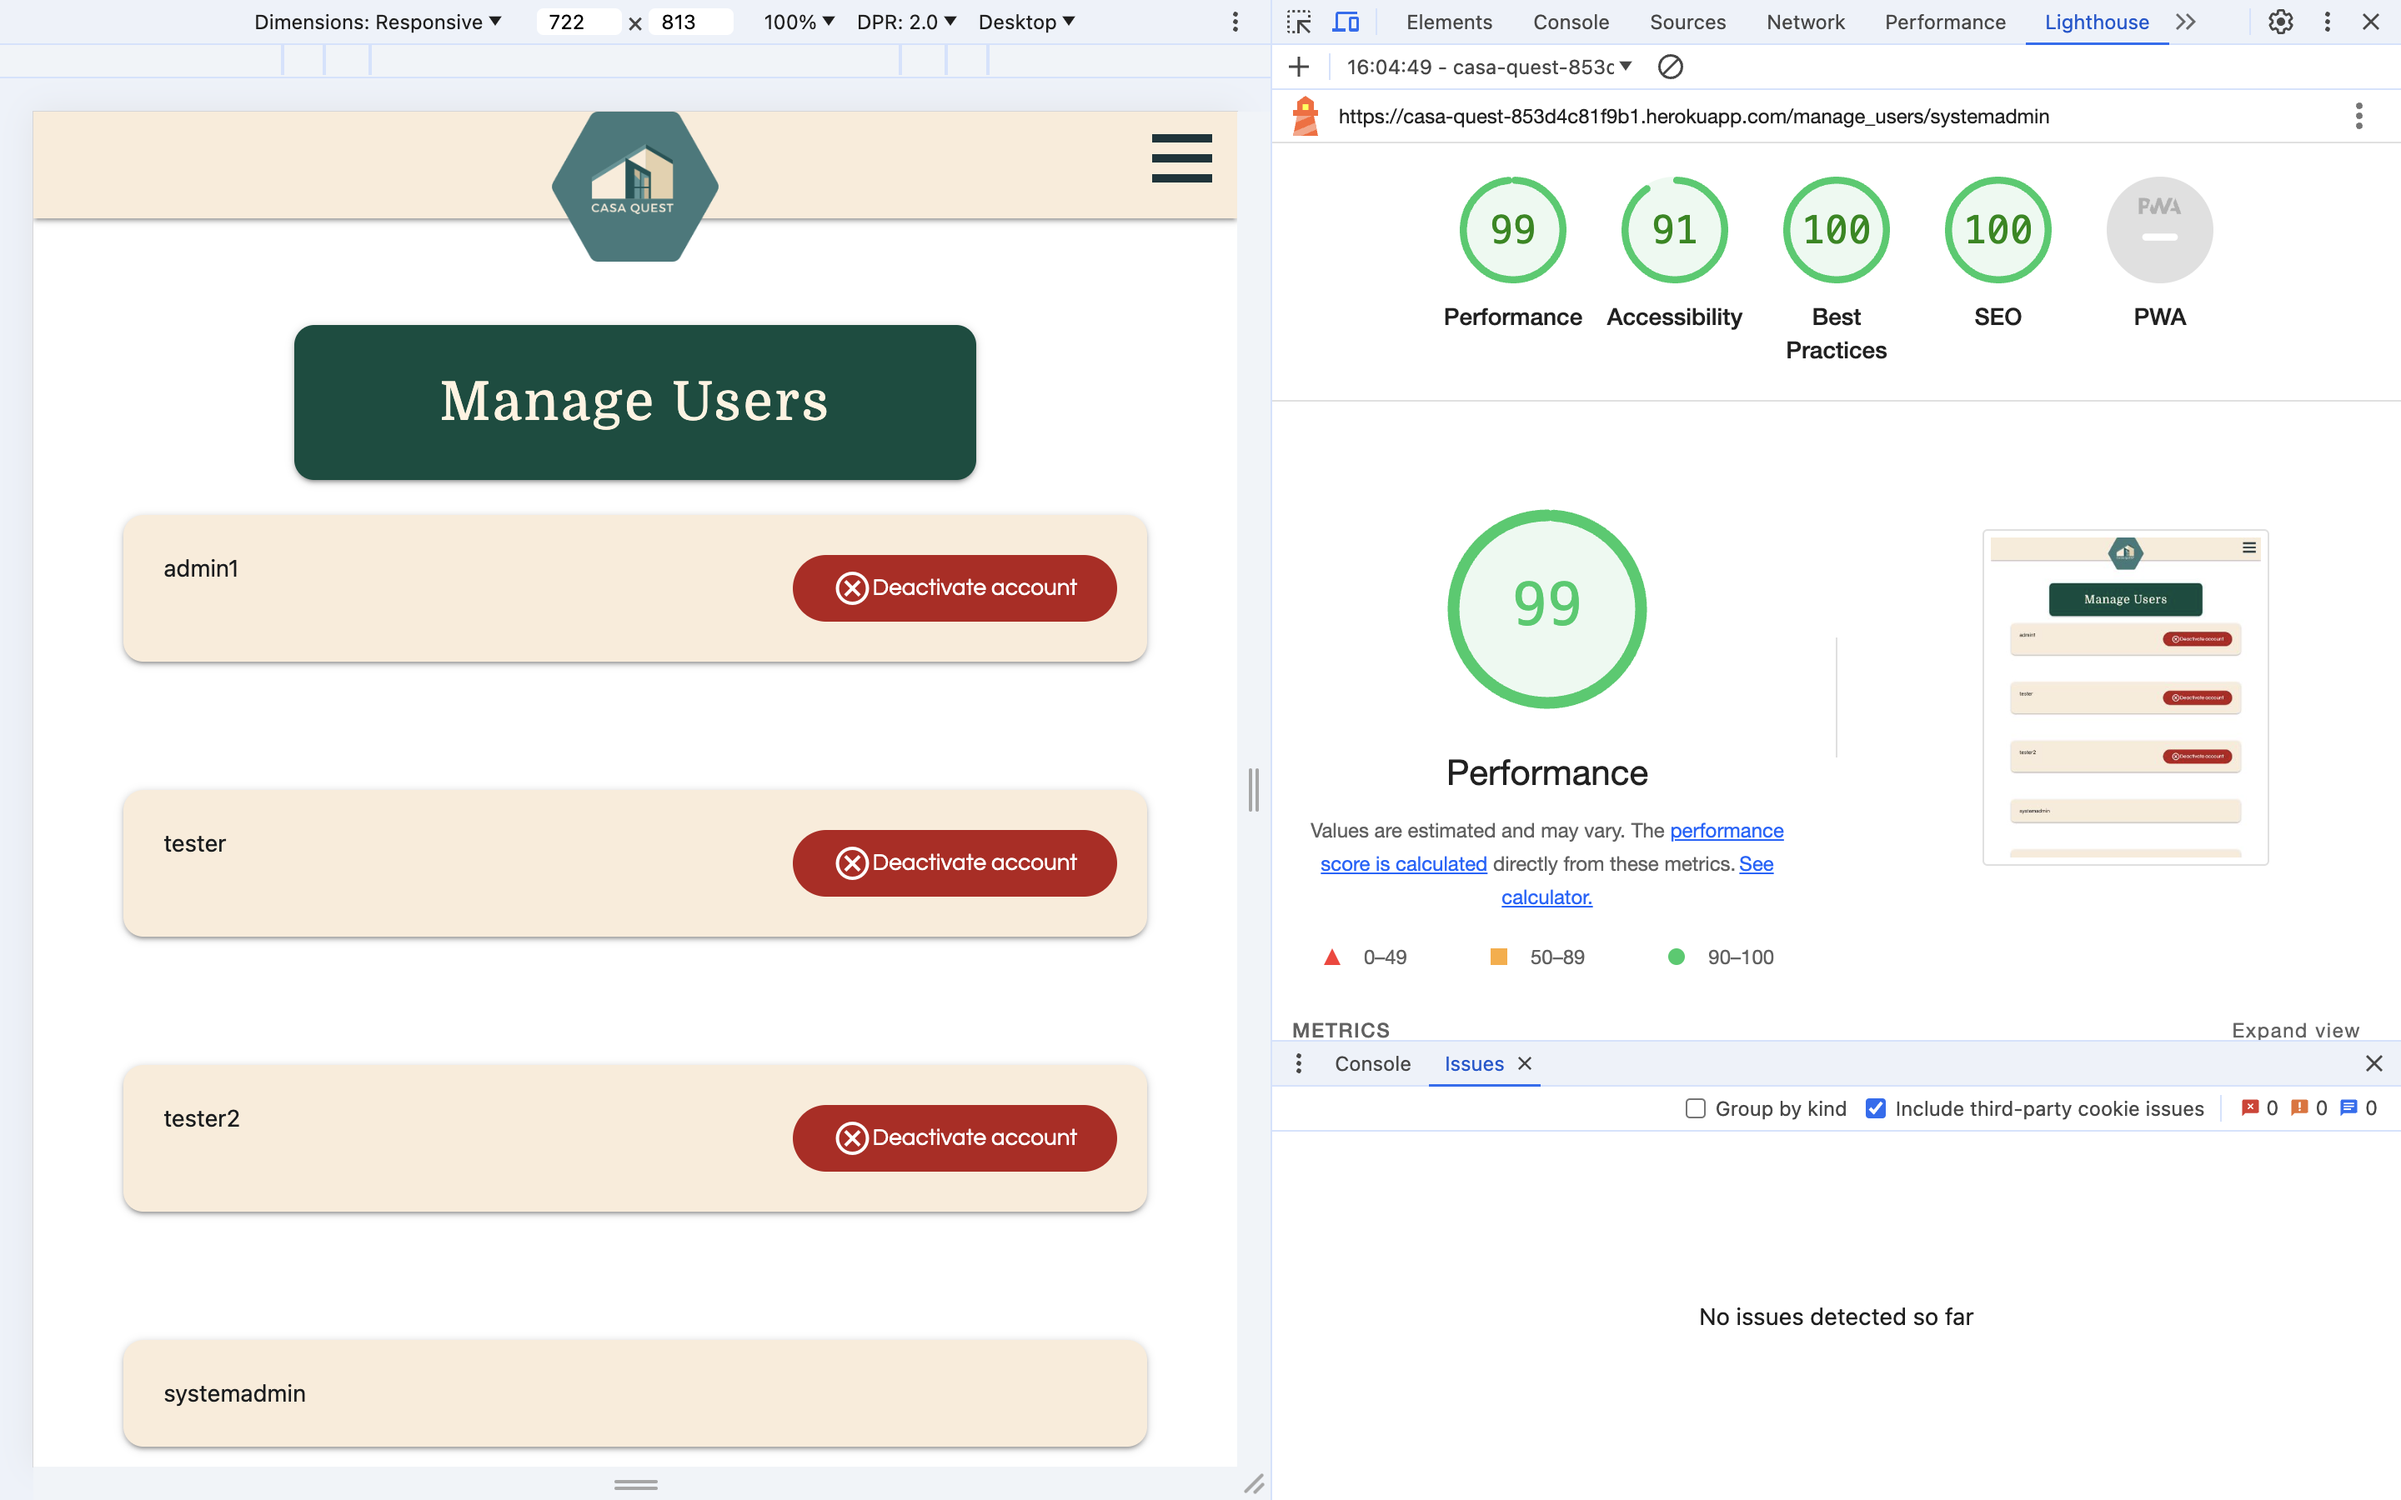
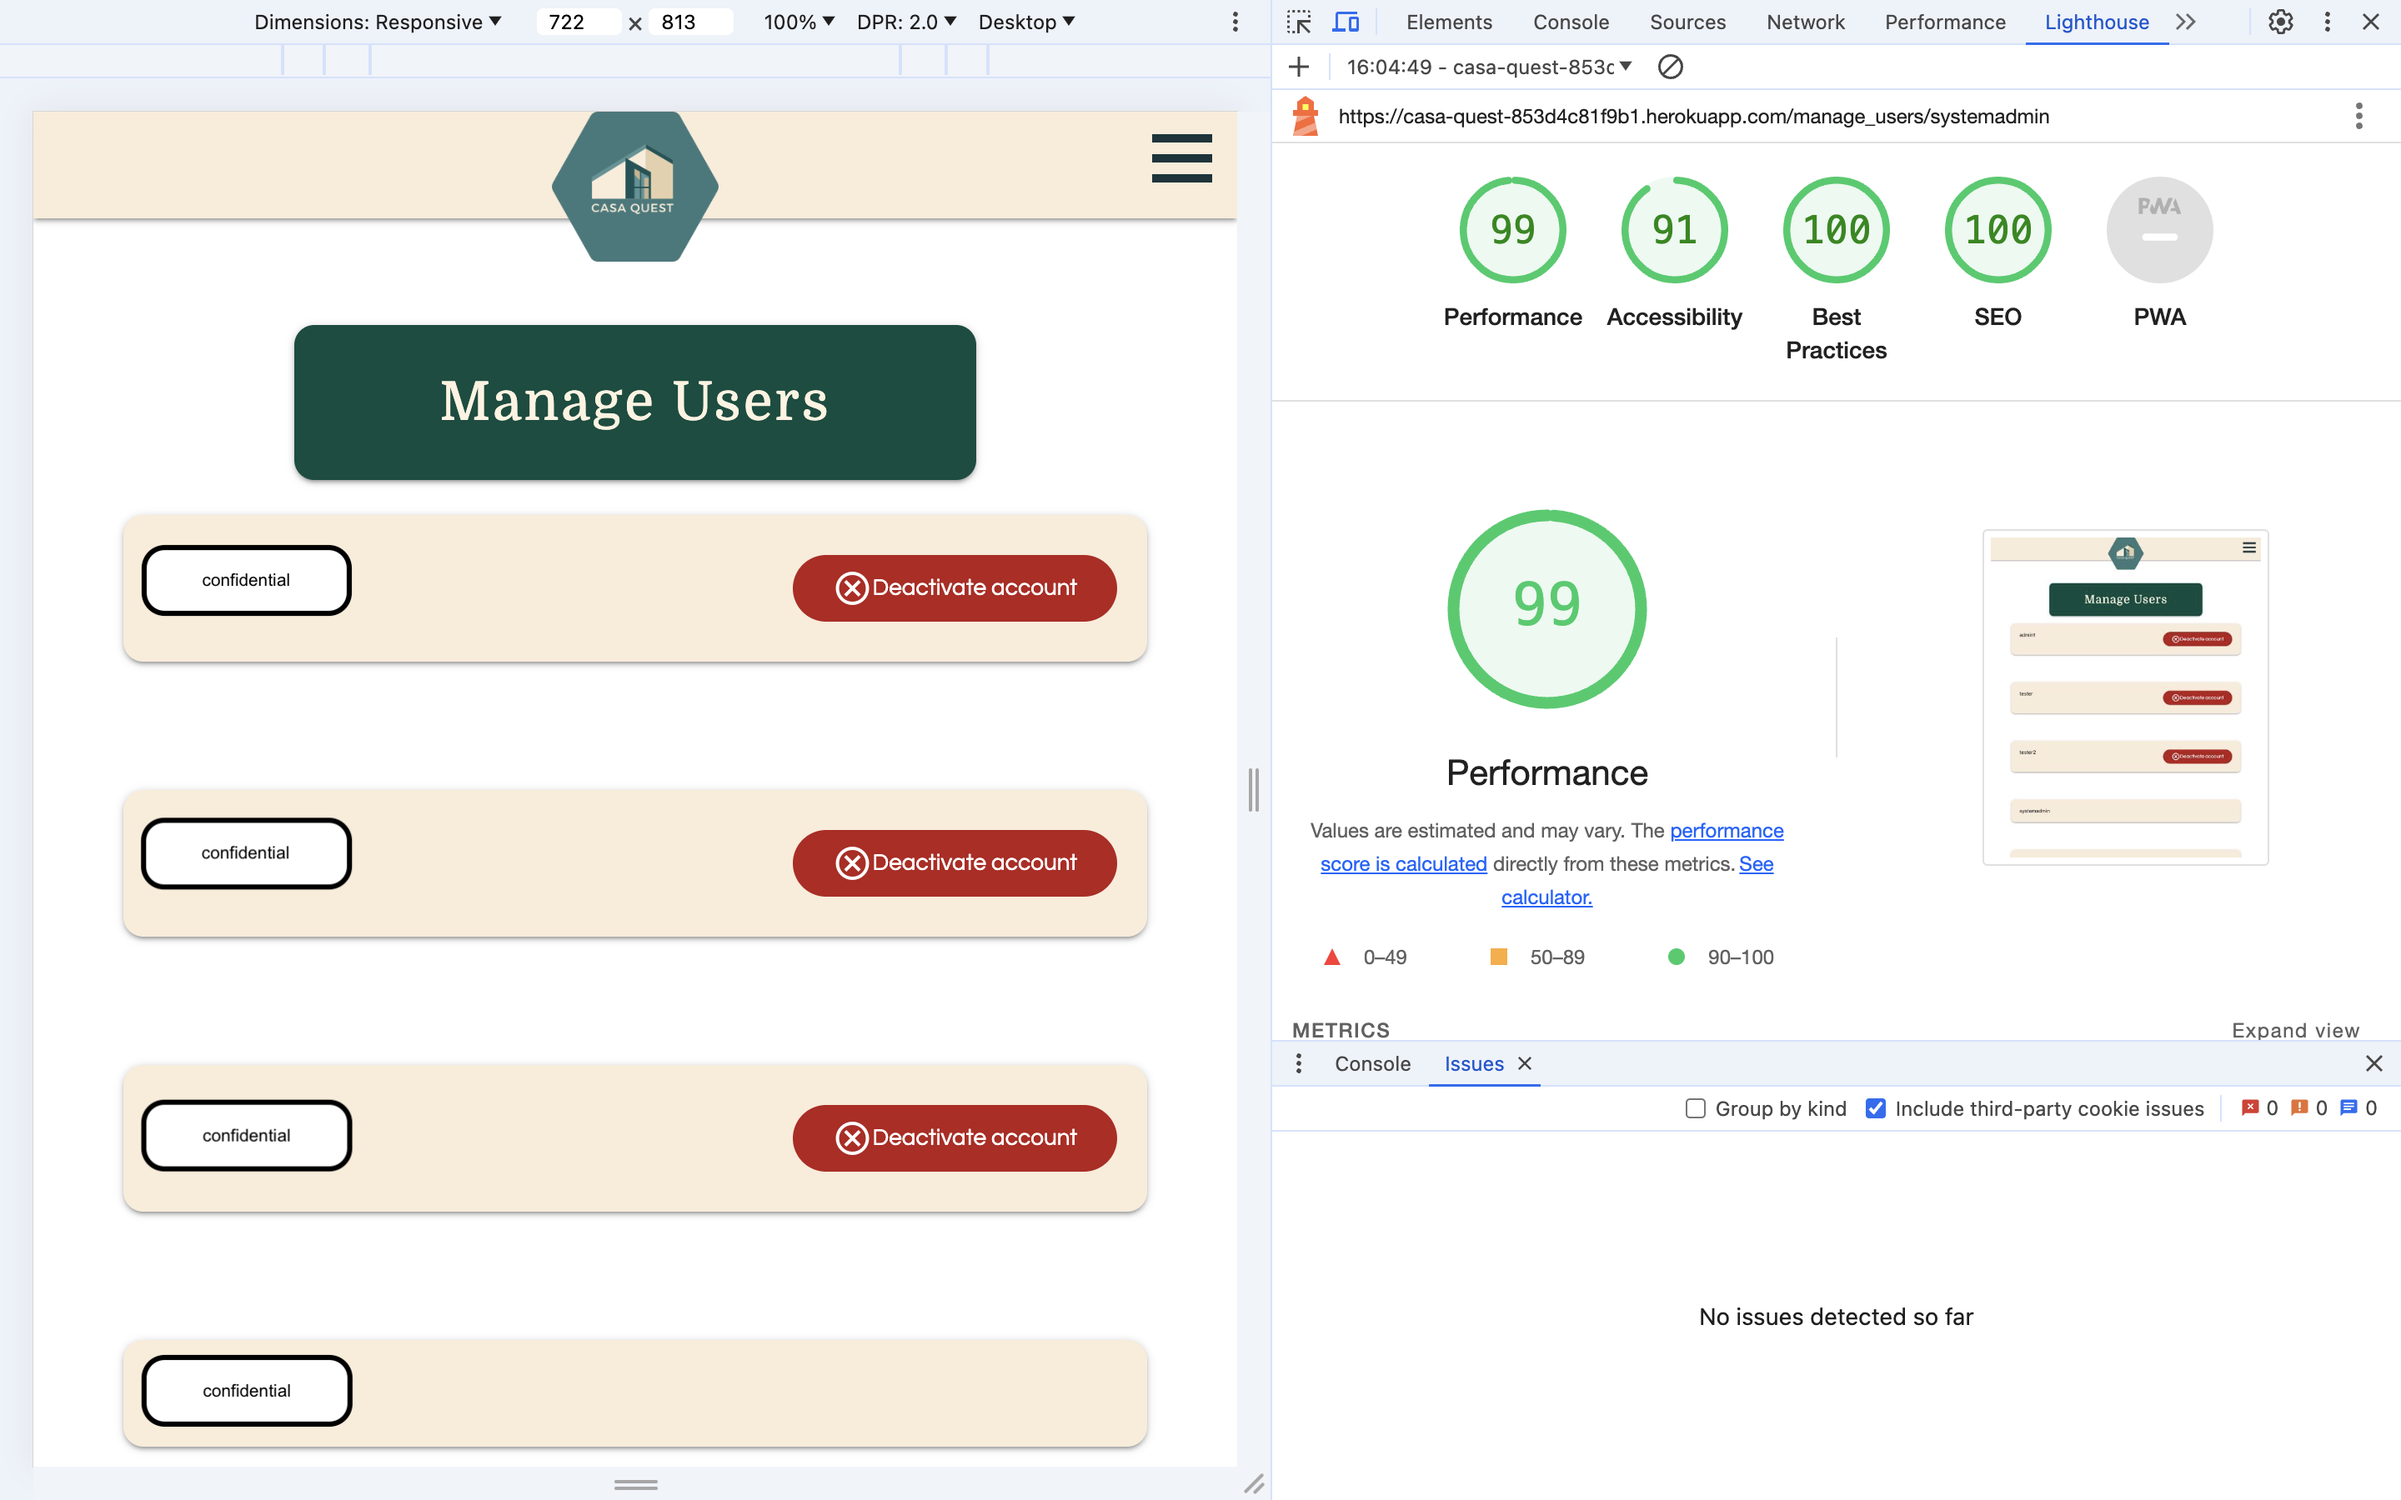
Fix screenshots to maintain confidentiality

diff --git a/TESTING.md b/TESTING.md
@@ -56,10 +56,10 @@ I used separate script tags in certain HTML files to target only those specific 
 
 | Directory | File | Screenshot | Notes |
 | --- | --- | --- | --- |
-| templates | login.html, change_password.html, register.html | ![screenshot](documentation/validation/javascript-validation/jshint-togglepassword.png) |  unused function as it get's called with buttons |
+| templates | login.html, change_password.html, register.html | ![screenshot](documentation/validation/javascript-validation/jshint-togglepassword.png) |  Unused variable as it is called with the click of the icon |
 | templates | profile.html | ![screenshot](documentation/validation/javascript-validation/js-validation-profile.png) |  No errors |
 | templates | favourites.html | ![screenshot](documentation/validation/javascript-validation/js-validation-favourites.png) | No errors |
-| templates | change_password.html | ![screenshot](documentation/validation/javascript-validation/jshint-change-password.png) | unused variable validateForm which get's called on submitting the form |
+| templates | change_password.html | ![screenshot](documentation/validation/javascript-validation/jshint-change-password.png) | Unused variable validateForm which get's called on submitting the form |
 | templates | new_house.html | ![screenshot](documentation/validation/javascript-validation/js-validation-new-house.png) ![screenshot](documentation/validation/javascript-validation/js-hint-fix-new_house.png)| Undefined variable of `google` from google API. Unused variable of `formValidation()`. This function will be called in once form is submitted.  Unused variable of `initAutoComplete()`. This function initialises google's autocomplete API. Recommendations to use dot notation with my form validation function Fix: (second screenshot) I have changed it to dot notation as recommended. |
 | templates | edit_new_house.html | ![screenshot](documentation/validation/javascript-validation/js-validation-edit-house.png) ![screenshot](documentation/validation/javascript-validation/js-hint-fix-edit_new_house.png) | Undefined variable of `google` from google API. Unused variable of `formValidation()`. This function will be called in once form is submitted.  Unused variable of `initAutoComplete()`. This function initialises google's autocomplete API. Recommendations to use dot notation with my form validation function Fix: (second screenshot) I have changed it to dot notation as recommended. |
            
@@ -93,7 +93,7 @@ I've tested my deployed project on multiple devices to check for responsiveness 
 
 | Device | Landing page(index) | Register | Log in  | Profile | House | Contact | Favourites | Notes |
 | --- | --- | --- | --- | --- | --- | --- | --- | --- |
-| Mobile DevTools (320px) |![screenshot](documentation/responsiveness/mobile-landing-page.png) |![screenshot](documentation/responsiveness/mobile-register.png)|![screenshot](documentation/responsiveness/mobile-login.png) | ![screenshot](documentation/responsiveness/mobile-dashboard.png)  | ![screenshot](documentation/responsiveness/mobile-house-2.png) ![screenshot](documentation/responsiveness/mobile-house-3.png)![screenshot](documentation/responsiveness/mobile-house1.png)| ![screenshot](documentation/responsiveness/mobile-contact.png) | ![screenshot](documentation/responsiveness/mobile-favourites.png) | Works as expected |
+| Mobile DevTools (320px) |![screenshot](documentation/responsiveness/mobile-landing-page.png) |![screenshot](documentation/responsiveness/mobile-register.png)|![screenshot](documentation/responsiveness/mobile-login.png) | ![screenshot](documentation/responsiveness/mobile-dashboard.png)  | ![screenshot](documentation/responsiveness/mobile-house-1.png) ![screenshot](documentation/responsiveness/mobile-house-2.png)![screenshot](documentation/responsiveness/mobile-house-3.png) [screenshot](documentation/responsiveness/mobile-house-4.png) [screenshot](documentation/responsiveness/mobile-house-5.png)| ![screenshot](documentation/responsiveness/mobile-contact.png) | ![screenshot](documentation/responsiveness/mobile-favourites.png) | Works as expected |
 | Tablet DevTools (768px) | ![screenshot](documentation/responsiveness/tablet-landing.png)| ![screenshot](documentation/responsiveness/tablet-register.png)  |![screenshot](documentation/responsiveness/tablet-login.png) | ![screenshot](documentation/responsiveness/tablet-dashboard.png) | ![screenshot](documentation/responsiveness/tablet-house.png) |![screenshot](documentation/responsiveness/tablet-favourites.png)| ![screenshot](documentation/responsiveness/tablet-403.png) | works as expected |
 | Desktop |![screenshot](documentation/testing/browsers/chrome/chrome-landing-page.png) |![screenshot](documentation/testing/browsers/chrome/chrome-registration-1.png) ![screenshot](documentation/testing/browsers/chrome/chrome-registration-2.png) |![screenshot](documentation/testing/browsers/chrome/chrome-login.png) | ![screenshot](documentation/testing/browsers/chrome/chrome-profile-1.png) ![screenshot](documentation/testing/browsers/chrome/chrome-profile-2.png) | ![screenshot](documentation/testing/browsers/chrome/chrome-house-1.png)![screenshot](documentation/testing/browsers/chrome/chrome-house-2.png) ![screenshot](documentation/testing/browsers/chrome/chrome-house-3.png) | ![screenshot](documentation/testing/browsers/chrome/chrome-contact.png) | ![screenshot](documentation/testing/browsers/chrome/chrome-favourites.png) | Works as expected |
 | Iphone 13 (Own device) |![screenshot](documentation/responsiveness/iphone13-landing.PNG) ![screenshot](documentation/responsiveness/iphone13-landing-2.PNG) |![screenshot](documentation/responsiveness/iphone-13-register.PNG) ![screenshot](documentation/responsiveness/iphone13-register-2.PNG) |![screenshot](documentation/responsiveness/iphone-13-login.PNG) | ![screenshot](documentation/responsiveness/iphone13-dashboard-1.PNG) ![screenshot](documentation/responsiveness/iphone13-dashboard-2.PNG) ![screenshot](documentation/responsiveness/iphone13-dashboard-3.PNG) | ![screenshot](documentation/responsiveness/iphone13-house1.PNG)![screenshot](documentation/responsiveness/iphone13-house2.PNG) ![screenshot](documentation/responsiveness/iphone13-house3.PNG) | ![screenshot](documentation/responsiveness/iphone13-contact.PNG) | ![screenshot](documentation/responsiveness/iphone13-favourites1.PNG) ![screenshot](documentation/responsiveness/iphone13-favourites2.PNG) | Flash can be obscured by logo |
